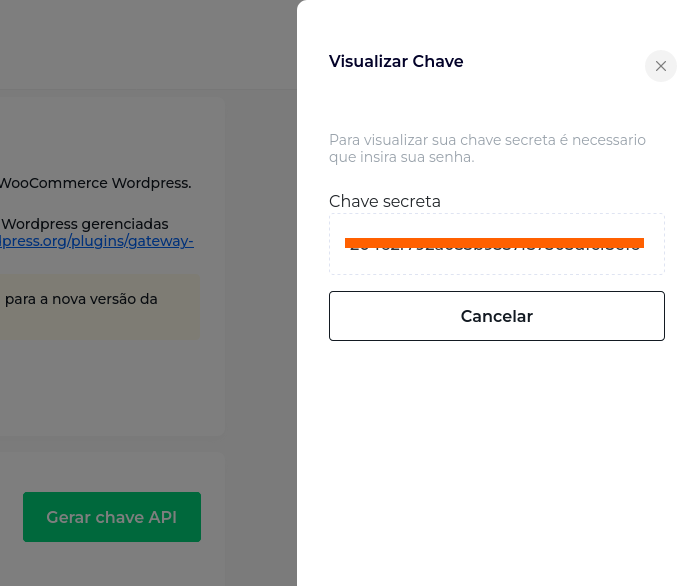
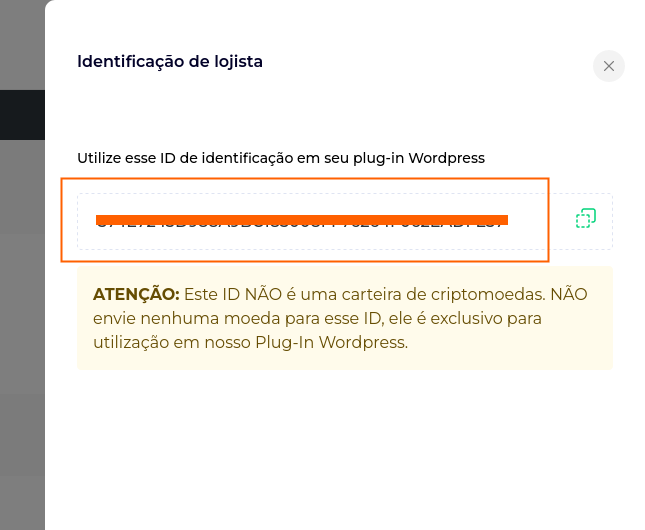
Step1

diff --git a/includes/class-wc-kamoney-gateway.php b/includes/class-wc-kamoney-gateway.php
@@ -35,7 +35,7 @@ class WC_Kamoney_Gateway extends WC_Payment_Gateway
         }
 
         // Kamoney API
-        $this->api = new Kamoney($this->kamoney_public_key, $this->kamoney_secret_key);
+        $this->api = new Kamoney($this->kamoney_id_merchant);
 
         // Active logs.
         if ('yes' === $this->debug) {
@@ -76,16 +76,11 @@ class WC_Kamoney_Gateway extends WC_Payment_Gateway
                 'default' => 'Você será redirecionado para https://www.kamoney.com.br para efetuar o pagamento',
                 'css' => 'max-width:400px;',
             ),
-            'kamoney_public_key' => array(
-                'title' => 'Chave pública Kamoney',
+            'kamoney_id_merchant' => array(
+                'title' => 'ID de Comerciante Kamoney',
                 'type' => 'text',
-                'desc_tip' => 'Esta é a chave pública fornecida pelo kamoney.com.br quando você se inscreveu em uma conta.',
+                'desc_tip' => 'Acesse o menu "Comerciante/Sobre o Gateway e procure por Plug-in Wordpress. Lá vocÊ conseguirá visualizar seu ID.',
                 'default' => '',
-            ),
-            'kamoney_secret_key' => array(
-                'title' => 'Chave secreta Kamoney',
-                'type' => 'password',
-                'desc_tip' => 'Essa é a chave secreta fornecida pelo kamoney.com.br quando você se inscreveu em uma conta.',
             ),
             'debug' => array(
                 'title' => 'Modo de depuração',
@@ -124,9 +119,9 @@ class WC_Kamoney_Gateway extends WC_Payment_Gateway
     public function is_available()
     {
         // Test if is valid for use.
-        $test = $this->api->statusServiceOrder();
+        $test = $this->api->status_merchant();
 
-        $available = 'yes' === $this->get_option('enabled') && !array_key_exists("error", $test) && false !== $test && $this->using_supported_currency();
+        $available = 'yes' === $this->get_option('enabled') && true === $test->success && false === $test->data->maintenance && $this->using_supported_currency();
         return $available;
     }
 
@@ -139,13 +134,15 @@ class WC_Kamoney_Gateway extends WC_Payment_Gateway
         $url = '';
 
         $data = array(
+            // "merchant_id" => $this->kamoney_id_merchant,
             "amount" => $this->get_order_total(),
             "order_id" => $order_id,
+            "additional_info" => "Venda realizada pelo Plug-In Wordpress",
             "callback" => WC()->api_request_url('wc_gateway_kamoney_payment'),
             'redirect' => $order->get_view_order_url(),//
         );
 
-        $sale = $this->api->salesCreateChk($data);
+        $sale = $this->api->merchant_create($data);
 
         if ('yes' === $this->debug) {
             $this->log->add($this->id, $sale["error"]);

diff --git a/includes/class-kamoney.php b/includes/class-kamoney.php
@@ -12,14 +12,12 @@ if (!defined('ABSPATH')) {
 
 class Kamoney
 {
-    private $public_key = '';
-    private $secret_key = '';
-    private $api = "https://api2.kamoney.com.br";
+    private $id_merchant = '';
+    private $api = "https://homolog-api2.kamoney.com.br";
 
-    public function __construct($public_key, $secret_key)
+    public function __construct($id_merchant)
     {
-        $this->public_key = $public_key;
-        $this->secret_key = $secret_key;
+        $this->id_merchant = $id_merchant;
     }
 
     private function query($endpoint, $data = array(), $type = 'GET')
@@ -27,13 +25,14 @@ class Kamoney
         // create sign
         $mt = explode(' ', microtime());
         $req['nonce'] = $mt[1] . substr($mt[0], 2, 6);
+        $req['merchant_id'] = $this->id_merchant;
 
         foreach ($data as $key => $value) {
             $req[$key] = $value;
         }
 
-        $data_query = http_build_query($req, '', '&');
-        $sign = hash_hmac('sha512', $data_query, $this->secret_key);
+        // $data_query = http_build_query($req, '', '&');
+        // $sign = hash_hmac('sha512', $data_query, $this->secret_key);
 
         $url = $this->api . $endpoint;
 
@@ -43,10 +42,10 @@ class Kamoney
             'redirection' => '0',
             'httpversion' => '1.0',
             'blocking' => true,
-            'headers' => array(
-                "public" => $this->public_key,
-                "sign" => $sign,
-            ),
+            // 'headers' => array(
+            //     "public" => $this->public_key,
+            //     "sign" => $sign,
+            // ),
             'cookies' => array(),
         );
 
@@ -59,12 +58,12 @@ class Kamoney
         return json_decode($response['body'], true);
     }
 
-    public function statusServiceOrder()
+    public function status_merchant()
     {
-        return $this->query("/public/status");
+        return $this->query("/public/services/merchant");
     }
 
-    public function salesCreateChk($data)
+    public function merchant_create($data)
     {
         return $this->query("/private/merchant", $data, 'POST');
     }
